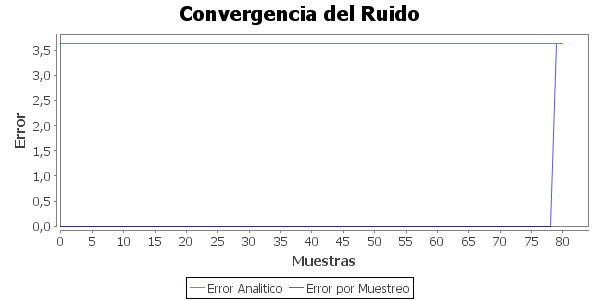
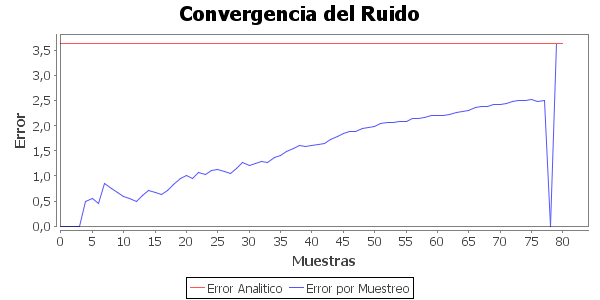
arreglado error

diff --git a/src/Ejercicios/Ejercicio_4.java b/src/Ejercicios/Ejercicio_4.java
@@ -216,7 +216,7 @@ public double[][] calcularMatriz(BufferedImage entrada, BufferedImage salida,dou
         //hace esta formula Sum(p(x) * p(y/x) ) los dos son de simulacion
         double ruido = 0;
         for(int i = 0; i<ocurrenciaSimbolos.length;i++){
-            ruido = ruido + (double)(ocurrenciaSimbolos[i]/muestras) * ruidoColumnas[i];
+            ruido = ruido + ((double)ocurrenciaSimbolos[i]/muestras) * ruidoColumnas[i];
         }
         return ruido;
     }
